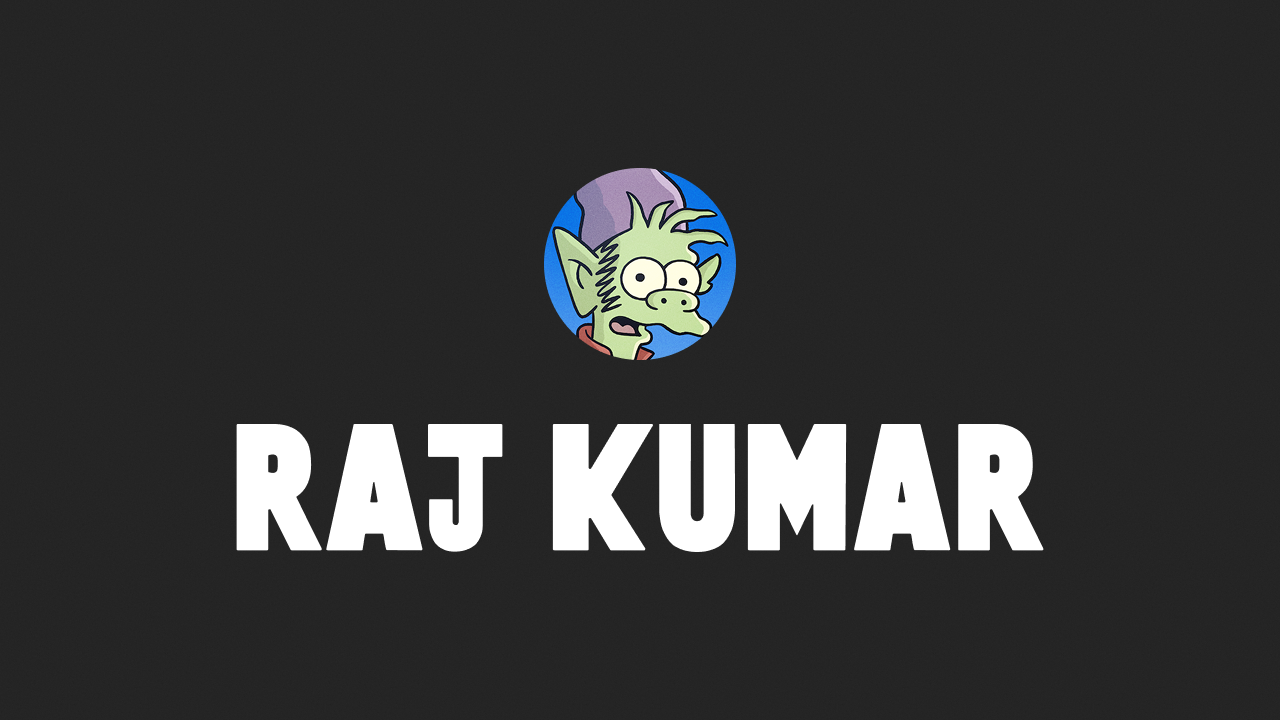
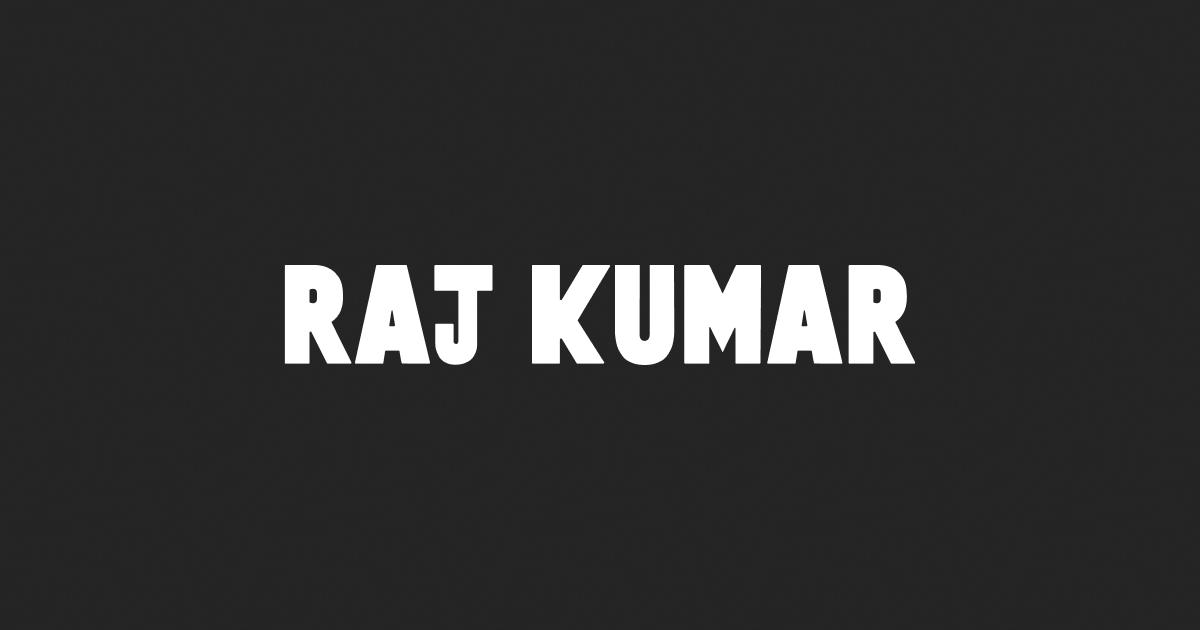
5.12

Changed region(s): [[0.185, 0.2111, 0.8325, 0.7841]]

diff --git a/index.html b/index.html
@@ -25,10 +25,12 @@
   <meta property="og:url" content="https://madebyraj.github.io/work" />
   <meta property="og:type" content="website" />
   <meta property="og:title" content="Raj Kumar - Product Designer" />
+  <meta property="og:description" content="Software maker crafting meaningful experiences.">
+  <meta property="og:site_name" content="Raj Kumar">
   <meta property="og:image" content="https://madebyraj.github.io/work/assets/global/og.png" />
   <meta property="og:image:alt" content="Raj Kumar - Product Designer" />
-  <meta property="og:image:width" content="1280" />
-  <meta property="og:image:height" content="720" />
+  <meta property="og:image:width" content="1200" />
+  <meta property="og:image:height" content="630" />
   <meta property="og:locale" content="en_IE" />
   <meta name="theme-color" content="#242424" />
   <title>Raj Kumar - Product Designer</title>
